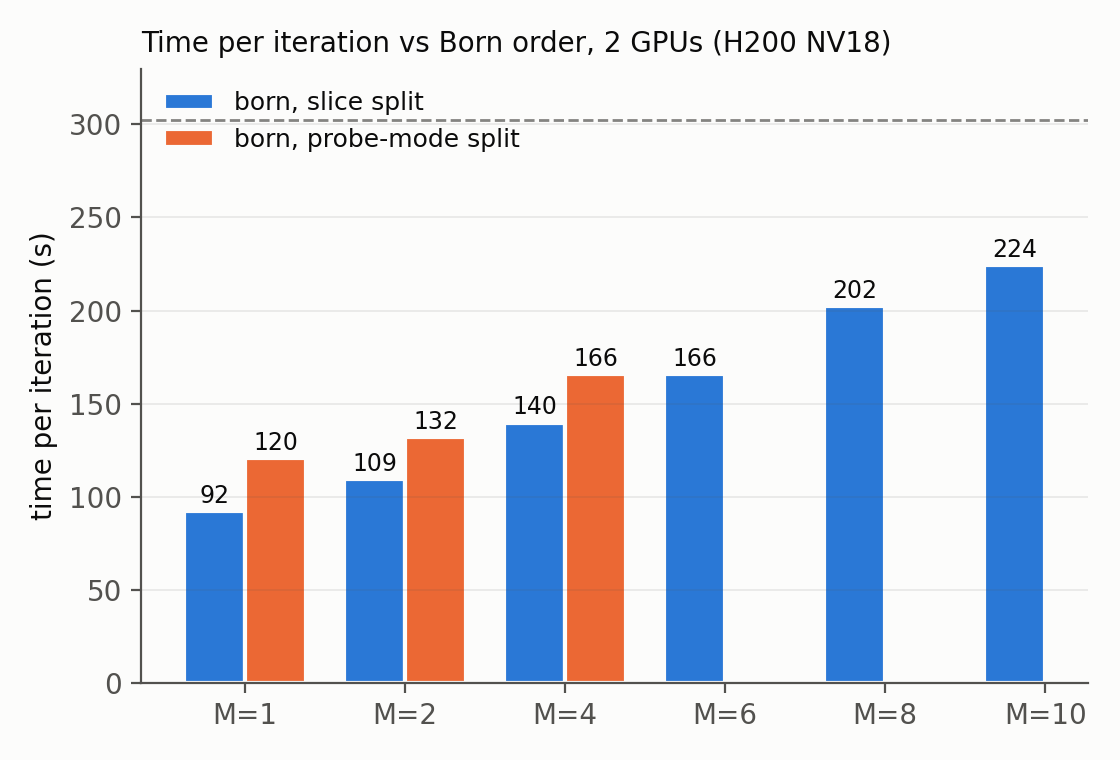
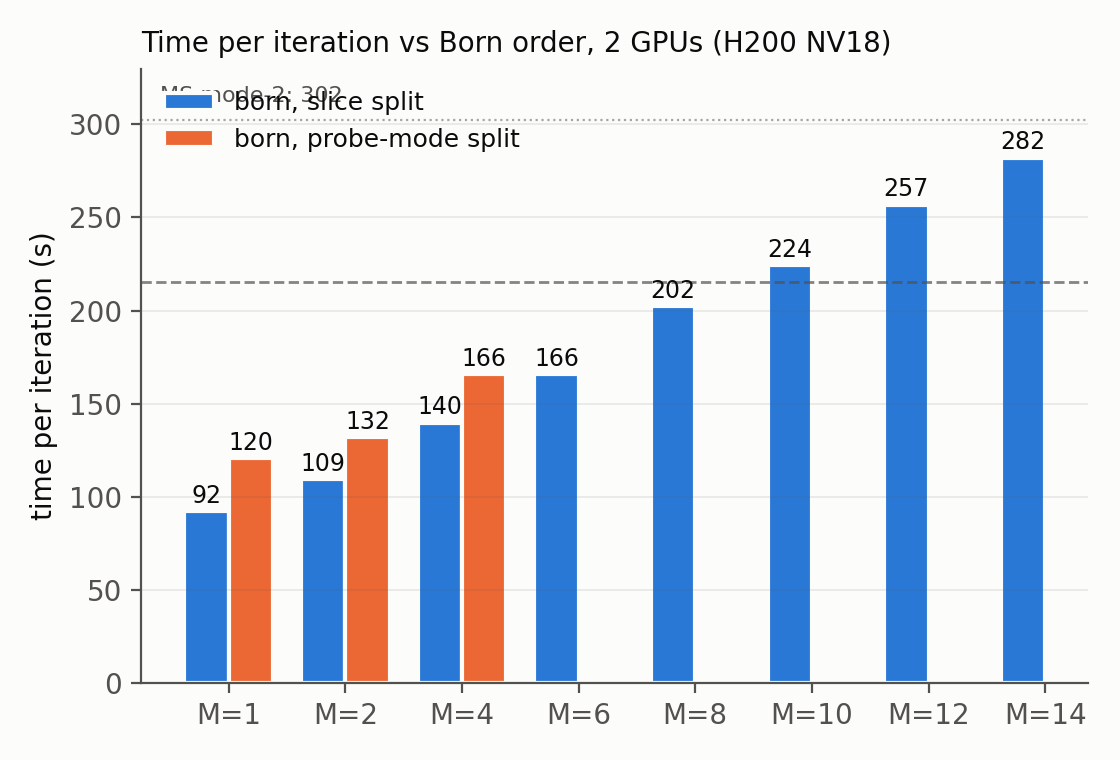
Section O.4: M=10-14 saturate on the MS loss; MS best is 1 GPU (mode-split slows it 1.4x) so born-vs-MS is parity at M8; tiling convicted by 42-slice control; full-ladder figures

diff --git a/demo/nvlink/redo/make_figs_h200.py b/demo/nvlink/redo/make_figs_h200.py
@@ -18,7 +18,7 @@ import matplotlib.pyplot as plt
 SURFACE, INK, INK2 = "#fcfcfb", "#0b0b0b", "#52514e"
 ORANGE = "#eb6834"
 RAMP = ["#a8c8ec", "#7dafe3", "#5395d9", "#2a78d6", "#174f94",
-        "#0d3a73"]  # M=1,2,4,6,8,10 light->dark
+        "#0d3a73", "#092b57", "#06203f"]  # M=1..14 light->dark
 
 plt.rcParams.update({
     "figure.facecolor": SURFACE, "axes.facecolor": SURFACE,
@@ -29,11 +29,12 @@ plt.rcParams.update({
     "font.size": 10,
 })
 
-MS_SITER, MS_LOSS = 302.4, 0.3096
-M_VALS = [1, 2, 4, 6, 8, 10]  # M=10 measured on the second H200 pod (highM2)
-SLICE_SITER = [92.3, 109.3, 139.7, 165.7, 202.5, 224.2]
+MS_SITER, MS_LOSS = 215.2, 0.3096      # multislice BEST config: 1 GPU
+MS2_SITER = 302.4                       # multislice mode-2 (2 GPUs) — SLOWER
+M_VALS = [1, 2, 4, 6, 8, 10, 12, 14]  # M>=10 from the second H200 pod (highM2)
+SLICE_SITER = [92.3, 109.3, 139.7, 165.7, 202.5, 224.2, 256.9, 282.1]
 MODE_SITER = {1: 120.5, 2: 131.9, 4: 165.6}  # M6 killed at $2 floor, M8 not reached
-LOSS5 = [0.3335, 0.3160, 0.3146, 0.3117, 0.3103, 0.3099]
+LOSS5 = [0.3335, 0.3160, 0.3146, 0.3117, 0.3103, 0.3099, 0.3096, 0.3096]
 ITERS = [1, 2, 3, 4, 5]
 TRAJ = {  # per-iteration total loss
     1: [0.4103, 0.3549, 0.3431, 0.3374, 0.3335],
@@ -42,6 +43,8 @@ TRAJ = {  # per-iteration total loss
     6: [0.3962, 0.3432, 0.3275, 0.3176, 0.3117],
     8: [0.3956, 0.3418, 0.3253, 0.3156, 0.3103],
     10: [0.3956, 0.3416, 0.3254, 0.3153, 0.3099],
+    12: [0.3956, 0.3412, 0.3248, 0.3146, 0.3096],
+    14: [0.3955, 0.3411, 0.3247, 0.3146, 0.3096],
 }
 MS_TRAJ = [0.3957, 0.3413, 0.3243, 0.3143, 0.3096]
 
@@ -72,21 +75,28 @@ for m in ext_ms:
             zorder=3)
     ax.annotate(f"M={m}*", (EXT_SITER[m], EXT[m]), xytext=(2, -16),
                 textcoords="offset points", ha="center", fontsize=9, color=INK)
+OFF = {1: (6, 6), 2: (6, 6), 4: (6, 6), 6: (6, 6),
+       8: (-2, 10), 10: (2, -18), 12: (0, 10), 14: (0, -18)}
 for m, x, y, c in zip(M_VALS, SLICE_SITER, LOSS5, RAMP):
     ax.plot(x, y, "o", color=c, markersize=8, markeredgecolor=SURFACE,
             markeredgewidth=1.3, zorder=3)
-    ax.annotate(f"M={m}", (x, y), xytext=(6, 6), textcoords="offset points",
-                fontsize=9, color=INK)
+    ax.annotate(f"M={m}", (x, y), xytext=OFF[m], textcoords="offset points",
+                ha="center" if m >= 8 else "left", fontsize=9, color=INK)
 ax.plot(MS_SITER, MS_LOSS, "s", color=ORANGE, markersize=9,
-        markeredgecolor=SURFACE, markeredgewidth=1.3, zorder=3)
-ax.annotate("multislice\n(mode-2)", (MS_SITER, MS_LOSS), xytext=(0, 10),
+        markeredgecolor=SURFACE, markeredgewidth=1.3, zorder=4)
+ax.annotate("multislice\n1 GPU (best)", (MS_SITER, MS_LOSS), xytext=(0, -34),
             textcoords="offset points", ha="center", fontsize=9, color=INK)
+ax.plot(MS2_SITER, MS_LOSS, "s", markerfacecolor=SURFACE,
+        markeredgecolor=ORANGE, markeredgewidth=1.6, markersize=9, zorder=3)
+ax.annotate("MS mode-2\n(2 GPUs)", (MS2_SITER, MS_LOSS), xytext=(0, -34),
+            textcoords="offset points", ha="center", fontsize=8.5, color=INK2)
+ax.set_ylim(0.3045, 0.3355)
 ax.axhline(MS_LOSS, color=INK2, linewidth=0.8, linestyle=":", alpha=0.5)
 ax.set_xlabel("time per iteration (s)")
 ax.set_ylabel("loss after 5 iterations")
-ax.set_title("Born order vs multislice on 2 GPUs — loss/cost frontier\n"
-             "(PSO 16384 DPs, 42 slices, 4 probe modes; born: slice split,\n"
-             "MS: probe-mode split — its only parallel axis)",
+ax.set_title("Born order (slice split, 2 GPUs) vs multislice — loss/cost frontier\n"
+             "(PSO 16384 DPs, 42 slices, 4 probe modes; MS best = 1 GPU —\n"
+             "mode-split, its only parallel axis, SLOWS it 1.4×)",
              fontsize=9.5, loc="left")
 ax.grid(axis="both", color=INK2, alpha=0.12, linewidth=0.6)
 save(fig, "fig_h200_pareto")
@@ -110,13 +120,15 @@ for x, y in zip(xs, mode_y):
                     textcoords="offset points", ha="center", fontsize=8.5,
                     color=INK)
 ax.axhline(MS_SITER, color=INK2, linewidth=1.0, linestyle="--", alpha=0.7)
-ax.annotate(f"multislice, mode split: {MS_SITER:.0f} s/iter",
+ax.axhline(MS2_SITER, color=INK2, linewidth=0.8, linestyle=":", alpha=0.5)
+ax.annotate(f"multislice best (1 GPU): {MS_SITER:.0f} s/iter",
             (len(M_VALS) - 0.5, MS_SITER), xytext=(0, 4),
             textcoords="offset points", ha="right", fontsize=9, color=INK2)
 ax.set_xticks(list(xs))
 ax.set_xticklabels([f"M={m}" for m in M_VALS])
 ax.set_ylabel("time per iteration (s)")
 ax.set_ylim(0, 330)
+ax.annotate(f"MS mode-2: {MS2_SITER:.0f}", (0.02, 0.945), xycoords="axes fraction", fontsize=8, color=INK2)
 ax.set_title("Time per iteration vs Born order, 2 GPUs (H200 NV18)",
              fontsize=10, loc="left")
 ax.legend(frameon=False, fontsize=9, loc="upper left")

diff --git a/demo/bench_results.md b/demo/bench_results.md
@@ -1080,6 +1080,38 @@ from the small-file loop or it starves the tifs. `pkill -f` over ssh (and
 even locally in compound commands) self-matches — use bracket patterns and
 separate calls.
 
+### O.4 High-order ladder + the multislice-parallelism correction (2026-10-13)
+
+Second H200 pod (ypbl9p59m8lq17; the "H100 SXM" tier is a LOTTERY — it
+dealt H200s twice and a real H100 once; always check nvidia-smi before
+setup). M=10/12/14 slice-2 + multislice 1-GPU, 5 iters, pmode-4 tiled
+workload, torch 2.14.1. The watchdog $2-floor kill landed 11 min AFTER
+"ALL DONE" — nothing lost (next time: self-terminate in the runner).
+
+| arm | s/iter | loss@5 |
+|-----|--------|--------|
+| M=10 slice-2 | 224.2 | 0.3099 |
+| M=12 slice-2 | 256.9 | 0.3096 |
+| M=14 slice-2 | 282.1 | 0.3096 |
+| **MS 1-GPU** | **215.2** | 0.3096 |
+
+- The born ladder SATURATES ON the multislice loss (0.3096 at M>=12), no
+  overshoot. M=10 reproduced across H100/H200 pods to 4 decimals.
+- **CORRECTION to O.3's headline: multislice mode-2 was a bad MS
+  baseline.** MS on ONE GPU runs 215.2 s/iter — mode-splitting SLOWED it
+  1.4x (302.4). MS's best config is 1 GPU. Fair verdict at this workload:
+  **2-GPU born M=8 (202.5, loss +0.0007) ~= 1-GPU MS (215.2) — parity,
+  not a 1.5x win.** Born's true advantage is architectural: slices give
+  it a productive scaling axis (and M a quality knob) where MS has none
+  (modes hurt it, slices can't split).
+- **Tiled-data artifact CONVICTED (local 42-slice control,
+  local_m8_42sl):** fixed M=8, 42x5A on the REAL 4096-DP scan reconstructs
+  cleanly everywhere at iter 10 (crisp columns, compact probe) — so the
+  central-region failure in the tiled runs is the tiling, NOT the 42-slice
+  geometry. dz=5 A exonerated for 5-10 iters on real data.
+- Figures updated in nvlink/figs_redo/ (full M=1..14 ladder, both MS
+  points); GPU specs + 5s utilization CSVs in the results dirs.
+
 ### Round-3 ops post-mortem (all recovered, $0 lost to idling)
 
 1. RunPod account had NO SSH key registered (`pubKey: null`) — an
